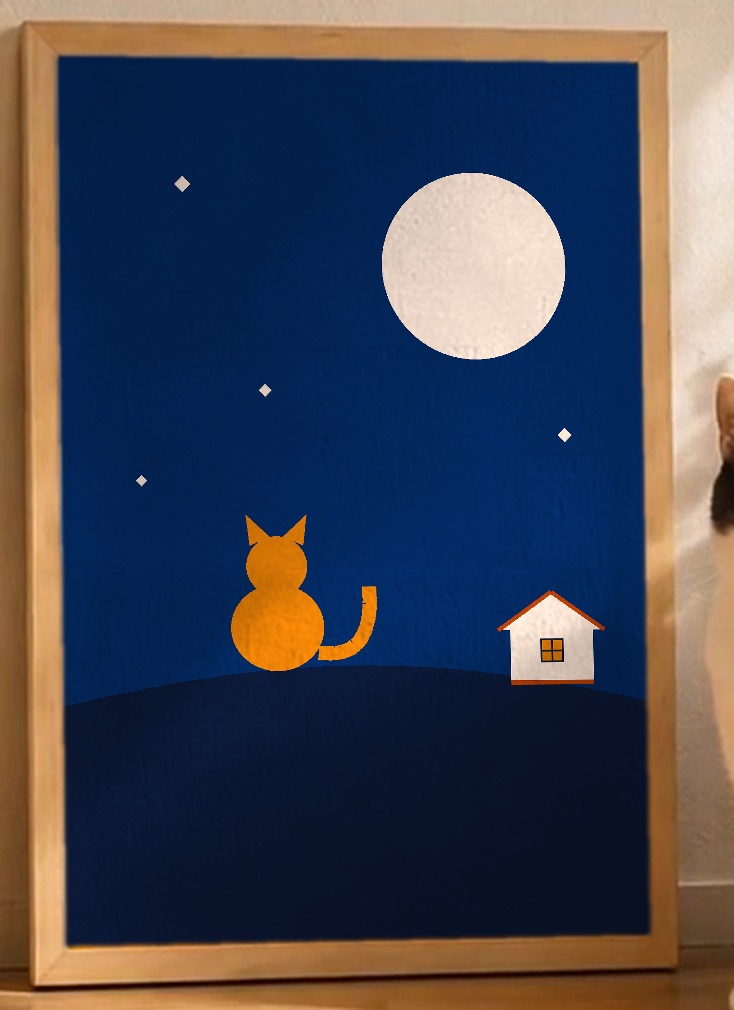
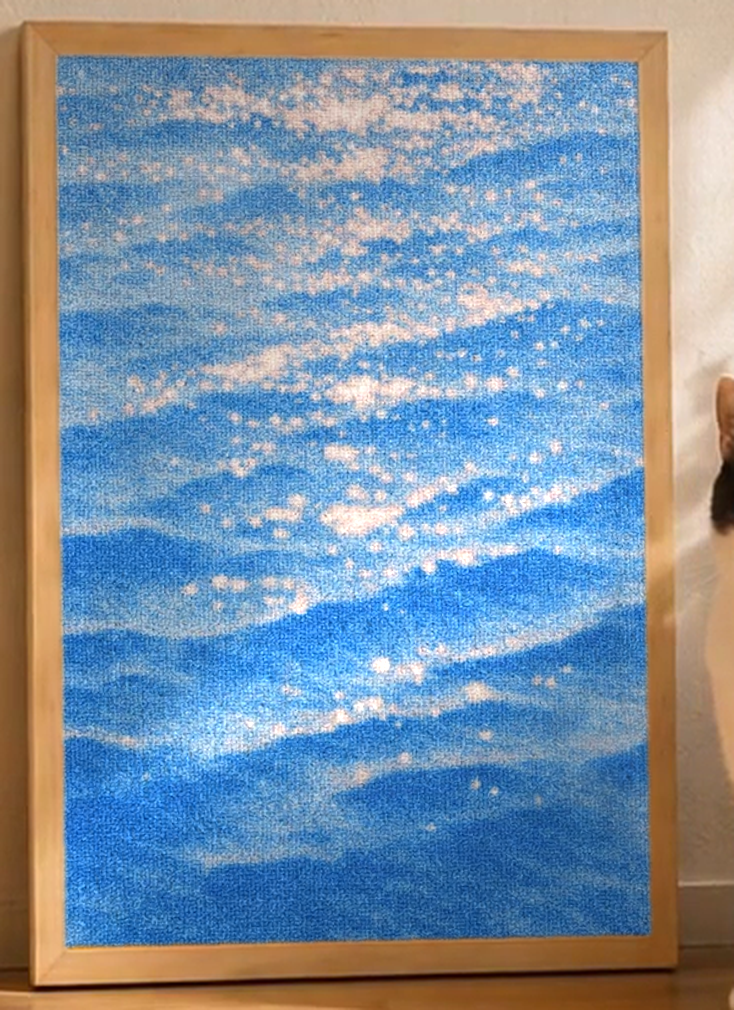
Replace placeholder artworks with six real prints extracted from supplier photos
- tools/extract_flats.py: pull canvas art out of the IMG_43xx posters
  (saturation-based inner-edge detection + consensus-box fallback) into
  flat-01..06.png; make_artworks.py now composites those flats into the
  filmed frame (art-01 stays the true video crop)
- lib/heroConfig.ts: six artworks — Sunny Field, Wave Light, Leaf Boat,
  Forest Light, Window Glow, Red Fruit (art-01 matches the hero video)
- hero rack: overlapping leaning stack so six spare prints fit beside the
  frame; scratcher PDP picker wraps to two rows
- drop tools/make_flats.py (hand-drawn placeholder generator)

diff --git a/lib/heroConfig.ts b/lib/heroConfig.ts
@@ -38,39 +38,54 @@ export interface Artwork {
 }
 
 /**
- * ARTWORKS[0] 必须与视频落幅帧画框内的画一致（当前为《晴野》）。
+ * ARTWORKS[0] 必须与视频落幅帧画框内的画一致（当前为《晴野》Sunny Field）。
  * 每张图都是「末帧画框区域的完整合成图」：透视、光照、画布纹理
- * 已离线烘焙（脚本：scratchpad/make_artworks.py），浏览器端只做交叉溶解。
- * 上新画作 = 跑一次脚本 + 在这里加一项。
+ * 已离线烘焙（tools/make_artworks.py），浏览器端只做交叉溶解。
+ * 平面稿 flat-0X 由 tools/extract_flats.py 从产品图提取（真实画作）。
+ * 上新画作 = 放入源图 → 两个脚本各跑一次 → 在这里加一项。
  */
 export const ARTWORKS: Artwork[] = [
   {
     id: "art-01",
     src: "/hero/art/art-01.png",
     title: "Sunny Field",
-    alt: "Naive painting of a little white house under a red sun, deep blue sky over a golden field",
+    alt: "A little white house under a red sun, deep blue sky over a golden field",
     caption: "The one it arrives with — a little house, a big noon.",
   },
   {
     id: "art-02",
     src: "/hero/art/art-02.png",
-    title: "Moonlit Night",
-    alt: "Naive painting of an orange cat watching a full moon beside a tiny lit house",
-    caption: "For quiet evenings and 3am zoomies.",
+    title: "Wave Light",
+    alt: "Sun glitter scattered across blue afternoon waves",
+    caption: "The sea, mid-sparkle.",
   },
   {
     id: "art-03",
     src: "/hero/art/art-03.png",
-    title: "Wave Light",
-    alt: "Naive painting of a little boat on a deep blue sea under a red sun",
-    caption: "A small boat on a big nap-time sea.",
+    title: "Leaf Boat",
+    alt: "A tiny boat adrift on a deep indigo sea, seen from above",
+    caption: "One small boat, a very big blue.",
   },
   {
     id: "art-04",
     src: "/hero/art/art-04.png",
     title: "Forest Light",
-    alt: "Naive painting of navy pine trees and a tiny white house against a sunset-orange sky",
-    caption: "Sunset pines, for the wild ones.",
+    alt: "Sunlight pooling through green summer leaves",
+    caption: "Sun through the canopy, for the wild ones.",
+  },
+  {
+    id: "art-05",
+    src: "/hero/art/art-05.png",
+    title: "Window Glow",
+    alt: "Late-afternoon window light and palm shadows in warm orange",
+    caption: "Golden hour, no window required.",
+  },
+  {
+    id: "art-06",
+    src: "/hero/art/art-06.png",
+    title: "Red Fruit",
+    alt: "A deck chair perched on an apple the size of a hill",
+    caption: "Summer, on a very big apple.",
   },
 ];
 

diff --git a/components/sections/CanvasCollection.tsx b/components/sections/CanvasCollection.tsx
@@ -50,7 +50,7 @@ const SLIDES: Slide[] = [
   {
     src: "/c01/gallery-redfruit.webp",
     alt: "A grey cat lying beside the Red Fruit canvas",
-    caption: "Red Fruit — a print from the next seasonal drop.",
+    caption: "Red Fruit — new to the lineup this season.",
     w: 1167,
     h: 1400,
   },
@@ -103,7 +103,7 @@ export default function CanvasCollection() {
                 <span className={styles.indexNo}>+</span>
                 <span className={styles.indexName}>Swap-in prints</span>
                 <span className={styles.indexMeta}>
-                  four at launch · seasonal drops
+                  six at launch · seasonal drops
                 </span>
               </Link>
             </li>
@@ -124,7 +124,7 @@ export default function CanvasCollection() {
         <Reveal delay={60}>
           <PortalCard
             href="/scratcher"
-            kicker="AU$89 · four prints"
+            kicker="AU$89 · six prints"
             title="The Canvas Scratcher"
             blurb="A framed print your cat is allowed to ruin — slowly, and with great ceremony."
             cta="See it properly"

diff --git a/components/Hero/ArtworkSwitcher.module.css b/components/Hero/ArtworkSwitcher.module.css
@@ -87,7 +87,6 @@
   top: calc(var(--rack-bottom-y) - var(--mini-w) * 1.46);
   display: flex;
   align-items: flex-end;
-  gap: 9px;
   pointer-events: none;
 }
 
@@ -102,10 +101,16 @@
   transform-origin: 50% 100%;
   opacity: 0;
   translate: 0 12px;
+  /* 六张画芯层叠斜靠（像真的立在墙脚互相搭着），越靠后越在前 */
+  z-index: calc(10 + var(--i));
   transition:
     opacity 560ms var(--ease-out) calc(var(--i) * 95ms + 80ms),
     translate 620ms var(--ease-soft) calc(var(--i) * 95ms + 80ms),
     transform 220ms var(--ease-soft) 0s;
+}
+
+.mini + .mini {
+  margin-left: calc(var(--mini-w) * -0.42);
 }
 
 .mini:nth-child(1) {
@@ -120,6 +125,12 @@
 .mini:nth-child(4) {
   transform: rotate(3.4deg);
 }
+.mini:nth-child(5) {
+  transform: rotate(-2.8deg);
+}
+.mini:nth-child(6) {
+  transform: rotate(2deg);
+}
 
 .rackOn .mini {
   opacity: 1;
@@ -128,6 +139,7 @@
 
 .mini:not(.miniFramed):hover {
   transform: rotate(0deg) translateY(-5px);
+  z-index: 40;
 }
 
 .mini:not(.miniFramed):active {

diff --git a/app/scratcher/page.tsx b/app/scratcher/page.tsx
@@ -11,7 +11,7 @@ import pdp from "@/components/pdp/pdp.module.css";
 export const metadata: Metadata = {
   title: "The Canvas Scratcher — Roomie",
   description:
-    "A framed loop-pile canvas that leans on your wall like art and scratches like a post. Solid pine, four swap-able prints, free AU shipping.",
+    "A framed loop-pile canvas that leans on your wall like art and scratches like a post. Solid pine, six swap-able prints, free AU shipping.",
 };
 
 /*
@@ -102,7 +102,7 @@ const SLIDES: Slide[] = [
   {
     src: "/c01/gallery-redfruit.webp",
     alt: "A grey cat lying beside the Red Fruit canvas",
-    caption: "Red Fruit — a print from the next seasonal drop.",
+    caption: "Red Fruit — new to the lineup this season.",
     w: 1167,
     h: 1400,
   },

diff --git a/components/Hero/ArtworkSwitcher.tsx b/components/Hero/ArtworkSwitcher.tsx
@@ -179,7 +179,10 @@ export default function ArtworkSwitcher({ rect, active, revealed }: Props) {
           {
             "--pin-left": px(rect.left + (rect.width * FRAME_RECT.pinLeft) / 100),
             "--pin-top": px(rect.top + (rect.height * FRAME_RECT.pinTop) / 100),
-            "--foot-left": px(fLeft + 4 * (miniW + 9) + 10),
+            // 画芯层叠斜靠（重叠 42%）：总宽 = miniW × (1 + (N-1)×0.58)
+            "--foot-left": px(
+              fLeft + miniW * (1 + (ARTWORKS.length - 1) * 0.58) + 16,
+            ),
             "--foot-top": px(fTop + fH + rect.height * 0.03 + 6),
           } as React.CSSProperties
         }

diff --git a/components/sections/TheShelf.tsx b/components/sections/TheShelf.tsx
@@ -38,7 +38,7 @@ export default async function TheShelf() {
               <span className={styles.featuredBody}>
                 <span className={styles.featuredTitle}>The Canvas Series</span>
                 <span className={styles.featuredMeta}>
-                  two pieces, four prints · from AU$89
+                  two pieces, six prints · from AU$89
                 </span>
               </span>
             </Link>

diff --git a/components/pdp/ScratcherShop.module.css b/components/pdp/ScratcherShop.module.css
@@ -87,6 +87,7 @@
   margin-top: 0.7rem;
   display: flex;
   gap: 0.7rem;
+  flex-wrap: wrap; /* 六张画芯在窄面板换行 */
 }
 
 .pick {

diff --git a/tools/make_artworks.py b/tools/make_artworks.py
@@ -406,96 +406,22 @@ def composite(flat_img, name):
     Image.fromarray(out).save(f'{OUT}/{name}.png')
     print('wrote', name, out.shape)
 
-# ---------------- 6. 三幅替换画作 ----------------
-S = 2
-FW, FH = FA_W * S, FA_H * S
+# ---------------- 6. 真实画作平面稿 → 合成 ----------------
+# 平面稿由 tools/extract_flats.py 从供应商产品图提取（1400×2000 = FA_W×FA_H）。
+# art-01（晴野）= 视频末帧原样裁剪（上方已输出）；02–06 走透视+光照+纹理合成。
+# 注：平面稿自带真实圈绒纹理，视频烘焙的 grain 叠加系数在 composite 内为 0.85，
+# 若观感过密可在此处对 flat 轻微高斯（0.6）预柔化。
+FLAT_DIR = ROOT / 'public' / 'hero' / 'art'
+for _i in range(2, 7):
+    _flat = Image.open(str(FLAT_DIR / f'flat-0{_i}.png')).convert('RGB')
+    if _flat.size != (FA_W, FA_H):
+        _flat = _flat.resize((FA_W, FA_H), Image.LANCZOS)
+    composite(_flat, f'art-0{_i}')
 
-def pt(x, y): return (x * S, y * S)
-def canvas(color): return Image.new('RGB', (FW, FH), tuple(int(c) for c in color))
-def down(a): return a.resize((FA_W, FA_H), Image.LANCZOS)
-
-def region_avg(mask):
-    return tuple(im[mask & mask_bool].mean(axis=0))
-
-redm = (rb > 130) & (gb < 80) & (bb < 80) & ((rb - gb) > 70)
-whitem = (rb > 180) & (gb > 168) & (bb > 152)
-NAVY = tuple(int(c) for c in region_avg(navy_l))
-ORANGE = tuple(int(c) for c in region_avg(orange_l))
-RED = tuple(int(c) for c in region_avg(redm))
-CREAM = tuple(int(c) for c in region_avg(whitem))
-INK = (8, 22, 48)
-print('palette', NAVY, ORANGE, RED, CREAM)
-
-def bezier(p0, p1, p2, n=32):
-    return [((1 - t)**2 * p0[0] + 2 * (1 - t) * t * p1[0] + t**2 * p2[0],
-             (1 - t)**2 * p0[1] + 2 * (1 - t) * t * p1[1] + t**2 * p2[1])
-            for t in (i / n for i in range(n + 1))]
-
-def tiny_house(d, cx, base_y, w=110):
-    h = int(w * 0.62); x0, x1 = cx - w // 2, cx + w // 2
-    d.polygon([pt(x0, base_y), pt(x1, base_y), pt(x1, base_y - h), pt(x0, base_y - h)], fill=CREAM)
-    d.polygon([pt(x0 - w * 0.12, base_y - h), pt(x1 + w * 0.12, base_y - h),
-               pt(cx, base_y - h - w * 0.42)], fill=CREAM)
-    lw = max(3 * S, int(w * 0.055) * S)
-    d.line([pt(x0 - w * 0.14, base_y - h), pt(cx, base_y - h - w * 0.44)], fill=RED, width=lw)
-    d.line([pt(cx, base_y - h - w * 0.44), pt(x1 + w * 0.14, base_y - h)], fill=RED, width=lw)
-    d.line([pt(x0, base_y), pt(x1, base_y)], fill=RED, width=lw)
-    ww = int(w * 0.28); wx, wy = cx - ww // 2, base_y - h + int(h * 0.18)
-    d.rectangle([pt(wx, wy), pt(wx + ww, wy + ww)], fill=ORANGE, outline=INK, width=2 * S)
-    d.line([pt(wx + ww / 2, wy), pt(wx + ww / 2, wy + ww)], fill=INK, width=2 * S)
-    d.line([pt(wx, wy + ww / 2), pt(wx + ww, wy + ww / 2)], fill=INK, width=2 * S)
-
-# 02 月夜
-a = canvas(NAVY); d = ImageDraw.Draw(a)
-d.ellipse([pt(375, 135), pt(585, 345)], fill=CREAM)
-for sx, sy, sr in ((150, 150, 9), (240, 380, 7), (580, 430, 8), (100, 480, 6)):
-    d.polygon([pt(sx, sy - sr), pt(sx + sr, sy), pt(sx, sy + sr), pt(sx - sr, sy)], fill=CREAM)
-d.polygon([pt(0, 1000), pt(700, 1000), pt(700, 740)] +
-          [pt(x, 740 - 55 * np.sin(np.pi * (x / 700) * 0.9 + 0.2)) for x in range(700, -1, -20)], fill=INK)
-tiny_house(d, 560, 705, w=95)
-cx, cy = 250, 690
-d.ellipse([pt(cx - 52, cy - 95), pt(cx + 52, cy)], fill=ORANGE)
-d.ellipse([pt(cx - 34, cy - 148), pt(cx + 34, cy - 82)], fill=ORANGE)
-d.polygon([pt(cx - 30, cy - 138), pt(cx - 34, cy - 172), pt(cx - 8, cy - 148)], fill=ORANGE)
-d.polygon([pt(cx + 30, cy - 138), pt(cx + 34, cy - 172), pt(cx + 8, cy - 148)], fill=ORANGE)
-tail = bezier((cx + 46, cy - 20), (cx + 110, cy - 10), (cx + 104, cy - 92))
-d.line([pt(x, y) for x, y in tail], fill=ORANGE, width=16 * S, joint='curve')
-composite(a, 'art-02')
-
-# 03 波光
-a = canvas(CREAM); d = ImageDraw.Draw(a)
-d.ellipse([pt(455, 105), pt(615, 265)], fill=RED)
-d.rectangle([pt(0, 600), pt(700, 1000)], fill=NAVY)
-for i, wx in enumerate(range(-20, 740, 96)):
-    rr = 34 if i % 2 == 0 else 26
-    d.ellipse([pt(wx - rr, 600 - rr), pt(wx + rr, 600 + rr)], fill=NAVY)
-for wy in (700, 800):
-    for wx in range(-20, 740, 96):
-        d.arc([pt(wx - 34, wy - 20), pt(wx + 34, wy + 20)], 200, 340, fill=CREAM, width=5 * S)
-bx, by = 300, 585
-d.polygon([pt(bx - 85, by), pt(bx + 85, by), pt(bx + 55, by + 46), pt(bx - 55, by + 46)], fill=ORANGE)
-d.line([pt(bx, by - 8), pt(bx, by - 150)], fill=INK, width=6 * S)
-d.polygon([pt(bx + 6, by - 148), pt(bx + 96, by - 16), pt(bx + 6, by - 16)], fill=CREAM)
-d.polygon([pt(bx - 6, by - 128), pt(bx - 78, by - 16), pt(bx - 6, by - 16)], fill=CREAM)
-d.line([pt(bx - 78, by - 16), pt(bx + 96, by - 16)], fill=RED, width=5 * S)
-composite(a, 'art-03')
-
-# 04 森光
-a = canvas(ORANGE); d = ImageDraw.Draw(a)
-d.ellipse([pt(160, 320), pt(300, 460)], fill=RED)
-d.polygon([pt(0, 1000), pt(700, 1000), pt(700, 690)] +
-          [pt(x, 690 - 30 * np.sin(np.pi * x / 700 + 0.6)) for x in range(700, -1, -25)], fill=NAVY)
-def fir(cx, base_y, w, h):
-    d.polygon([pt(cx - w * 0.5, base_y), pt(cx + w * 0.5, base_y), pt(cx, base_y - h * 0.62)], fill=NAVY)
-    d.polygon([pt(cx - w * 0.38, base_y - h * 0.34), pt(cx + w * 0.38, base_y - h * 0.34),
-               pt(cx, base_y - h)], fill=NAVY)
-fir(120, 700, 200, 330); fir(590, 690, 230, 420); fir(455, 672, 150, 250)
-tiny_house(d, 300, 680, w=120)
-composite(a, 'art-04')
 
 # ---------------- 7. 边缘复核图：四幅画的四边 3x 放大条 ----------------
 def edge_sheet():
-    arts = [Image.open(f'{OUT}/art-0{i}.png') for i in range(1, 5)]
+    arts = [Image.open(f'{OUT}/art-0{i}.png') for i in range(1, 7)]
     Z = 3
     strips = []
     for a in arts:

diff --git a/tools/extract_flats.py b/tools/extract_flats.py
@@ -1,0 +1,87 @@
+"""
+从供应商产品截图（IMG_43XX.PNG，正面平拍 mockup）提取画布平面稿。
+
+原理：截图模板一致（白底 + 浅木框 + 画布），画布是唯一的高饱和/深色大块。
+逐图用「列/行饱和占比」找画布内缘；若某图检测失败（如波光上半部
+浅色闪光区饱和度低），回退到其余图的共识框（模板逐像素对齐）。
+
+产出：public/hero/art/flat-01..06.png（1400×2000，管线 composite 的原生输入尺寸）
+顺序与 lib/heroConfig.ts ARTWORKS 对齐。
+"""
+import pathlib
+import numpy as np
+from PIL import Image, ImageFilter
+
+ROOT = pathlib.Path(__file__).parent.parent
+SRC = ROOT / 'GlugGlug30天发文计划'
+OUT = ROOT / 'public' / 'hero' / 'art'
+
+# (源文件, 输出名) —— 顺序 = ARTWORKS 顺序
+ORDER = [
+    ('IMG_4368.PNG', 'flat-01'),  # 晴野 Sunny Field（hero 视频内画作）
+    ('IMG_4367.PNG', 'flat-02'),  # 波光 Wave Light
+    ('IMG_4364.PNG', 'flat-03'),  # 叶舟 Leaf Boat
+    ('IMG_4369.PNG', 'flat-04'),  # 森光 Forest Light
+    ('IMG_4365.PNG', 'flat-05'),  # 窗影 Window Glow
+    ('IMG_4366.PNG', 'flat-06'),  # 红果 Red Fruit
+]
+INSET = 4          # 内缩避开框内缘阴影线
+FW, FH = 1400, 2000
+
+
+def inner_range(frac, thresh=0.55):
+    idx = np.where(frac > thresh)[0]
+    if len(idx) == 0:
+        return None
+    runs = np.split(idx, np.where(np.diff(idx) > 3)[0] + 1)
+    run = max(runs, key=len)
+    return int(run.min()), int(run.max())
+
+
+def detect_box(im):
+    a = np.asarray(im).astype(int)
+    sat = a.max(axis=2) - a.min(axis=2)
+    L = (a[..., 0] * 299 + a[..., 1] * 587 + a[..., 2] * 114) // 1000
+    strong = (sat > 45) | (L < 110)
+    # 限定产品区（模板固定：上下黑条外側不看）
+    strong[:900] = False
+    strong[2000:] = False
+    strong[:, :250] = False
+    strong[:, 1060:] = False
+    colfrac = strong.mean(axis=0) / max(strong.mean(axis=0).max(), 1e-6)
+    xr = inner_range(colfrac)
+    if xr is None:
+        return None
+    rows_in = strong[:, xr[0]:xr[1]]
+    rowfrac = rows_in.mean(axis=1) / max(rows_in.mean(axis=1).max(), 1e-6)
+    yr = inner_range(rowfrac)
+    if yr is None:
+        return None
+    return (xr[0], yr[0], xr[1], yr[1])
+
+
+def plausible(box):
+    if box is None:
+        return False
+    w, h = box[2] - box[0], box[3] - box[1]
+    return h > 0 and 0.60 < w / h < 0.72 and w > 500
+
+
+boxes = {}
+for f, name in ORDER:
+    im = Image.open(SRC / f).convert('RGB')
+    boxes[name] = (im, detect_box(im))
+
+valid = [b for _, b in boxes.values() if plausible(b)]
+consensus = tuple(int(np.median([b[i] for b in valid])) for i in range(4))
+print('consensus box:', consensus, f'({len(valid)}/{len(ORDER)} valid)')
+
+for f, name in ORDER:
+    im, box = boxes[name]
+    if not plausible(box):
+        print(f'  {name}: detection implausible {box} -> consensus')
+        box = consensus
+    crop = im.crop((box[0] + INSET, box[1] + INSET, box[2] - INSET + 1, box[3] - INSET + 1))
+    crop.resize((FW, FH), Image.LANCZOS).save(OUT / f'{name}.png')
+    print(f'  {name}: box={box} -> {FW}x{FH}')
+print('flats written to', OUT)
